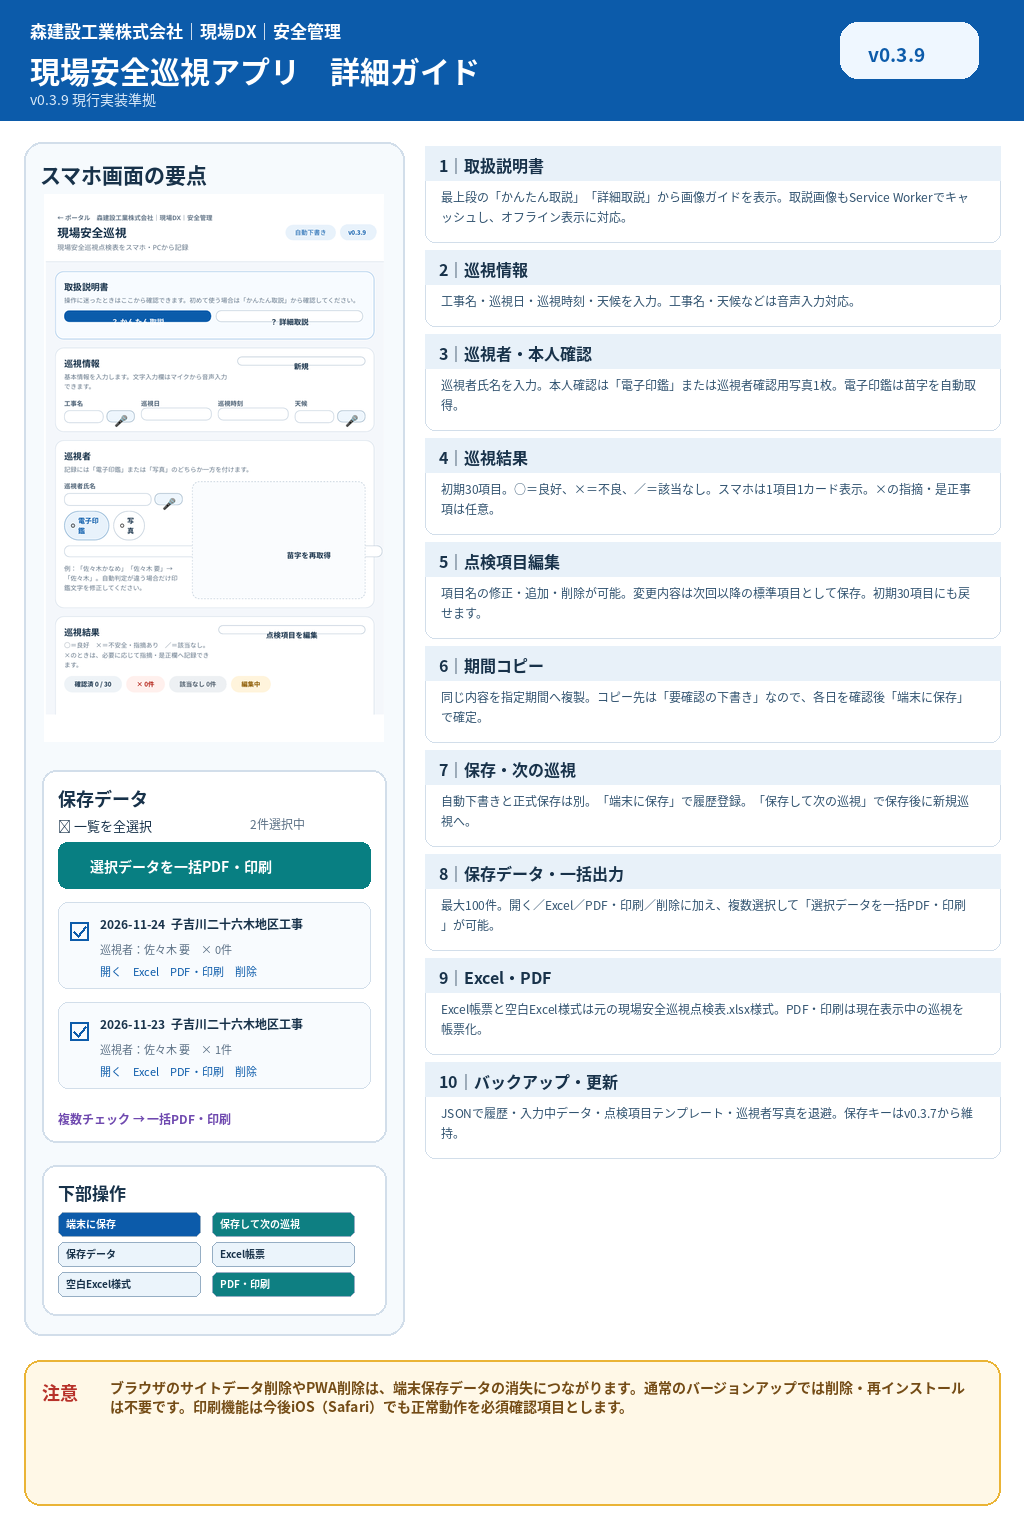
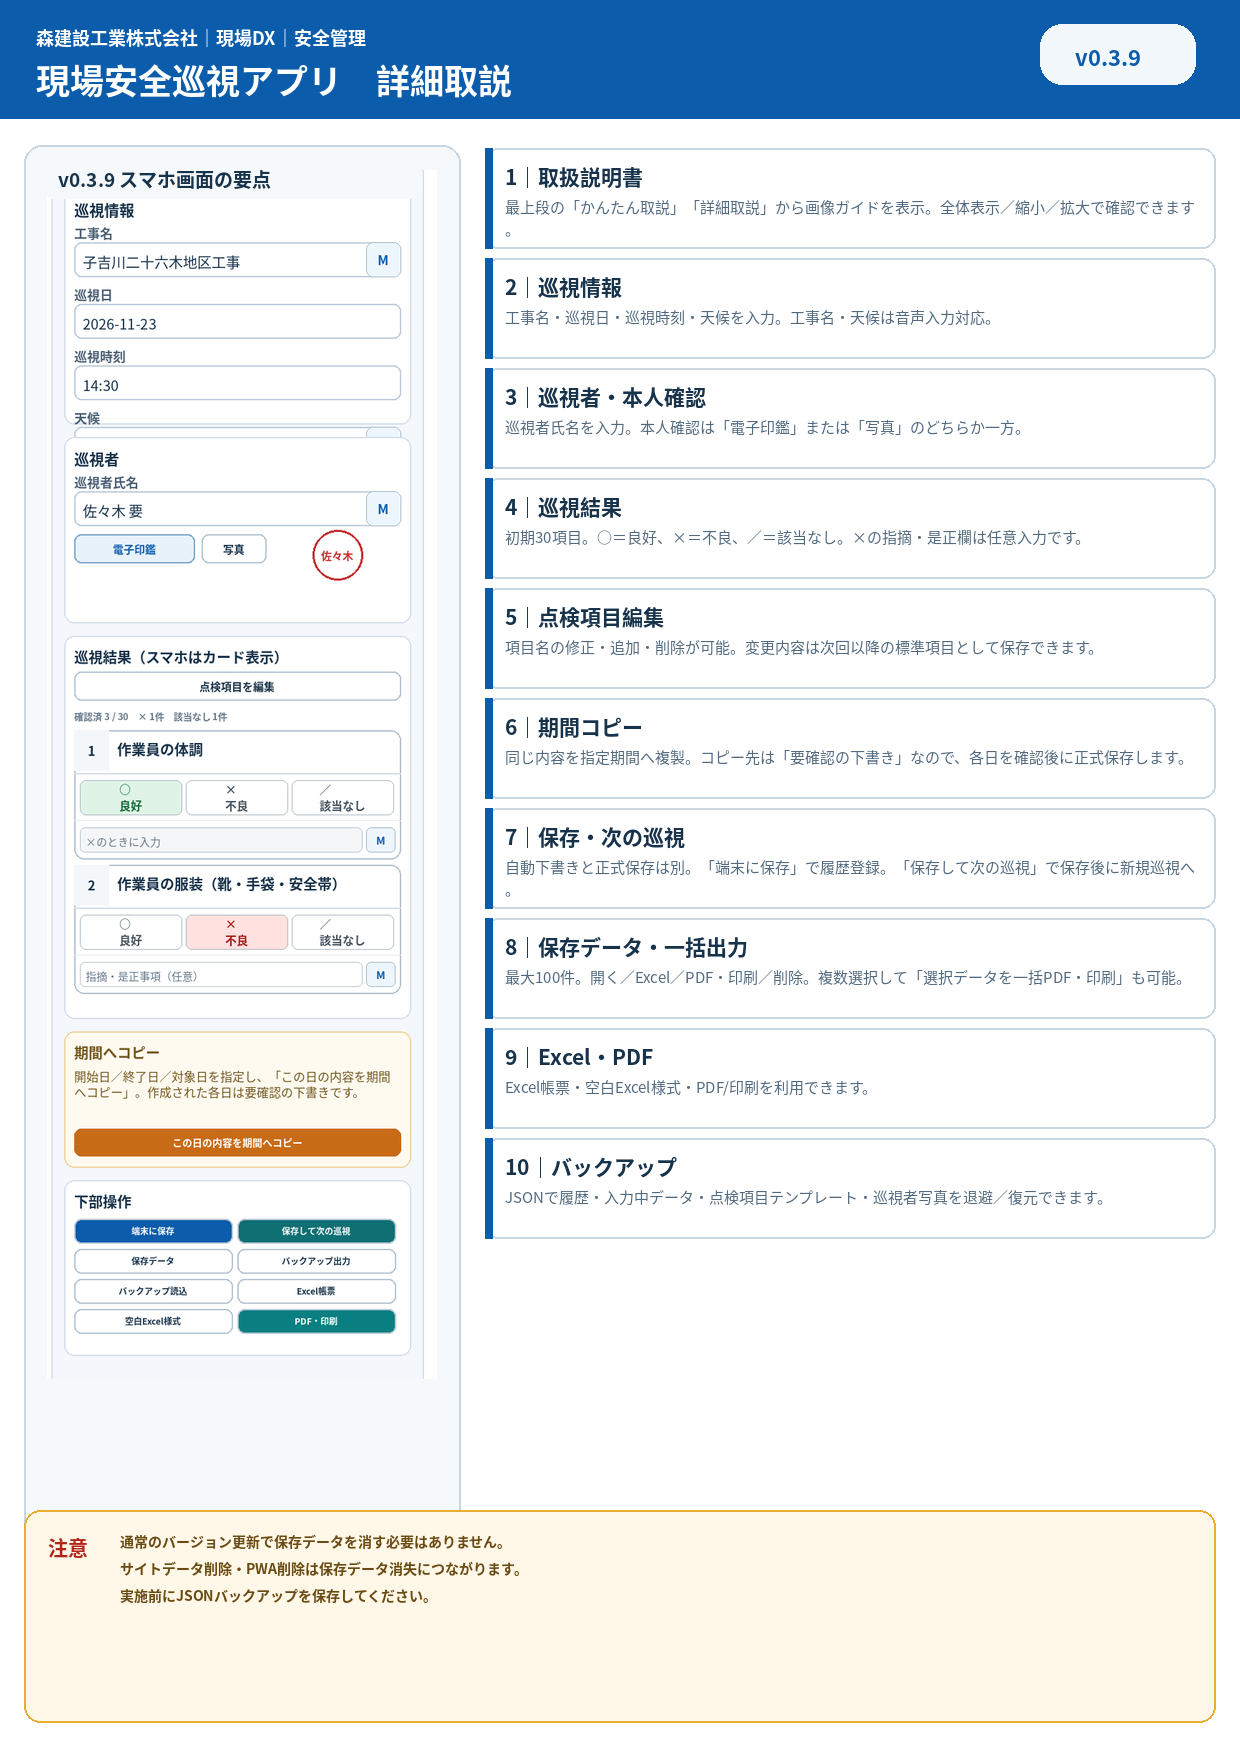
v0.3.9 取説表示・Android巡視結果レイアウト修正

diff --git a/index.html b/index.html
@@ -44,6 +44,35 @@
 }
 
 .help-top-panel{border-color:#9fc5e8;background:#f7fbff}.help-top-panel .help-bar{display:flex;gap:9px;flex-wrap:wrap;margin-top:10px}.help-top-panel .help-bar .btn{min-width:150px;min-height:44px;display:flex;align-items:center;justify-content:center;line-height:1.3;padding:10px 14px}@media(max-width:560px){.help-top-panel .help-bar .btn{flex:1 1 140px}}
+
+/* v0.3.9 display hotfix: Android patrol heading + guide viewer */
+.patrol-section-head{display:grid!important;grid-template-columns:minmax(0,1fr) auto!important;align-items:start!important;gap:12px!important;flex-wrap:nowrap!important}
+.patrol-section-head .patrol-heading-copy{display:block!important;min-width:0!important;width:100%!important;max-width:none!important;flex:none!important}
+.patrol-section-head .patrol-heading-copy h2,.patrol-section-head .patrol-heading-copy .hint{writing-mode:horizontal-tb!important;text-orientation:mixed!important;white-space:normal!important;width:100%!important;max-width:none!important}
+.patrol-section-head .patrol-heading-copy .hint{word-break:normal!important;overflow-wrap:break-word!important;line-break:auto!important;line-height:1.65!important}
+.guide-dialog-card{overflow:hidden!important;display:flex!important;flex-direction:column!important;max-height:92dvh!important}
+.guide-dialog-head{flex:0 0 auto!important}
+.guide-image-controls{flex:0 0 auto;display:flex;align-items:center;justify-content:center;gap:7px;flex-wrap:wrap;margin:10px 0 8px}
+.guide-image-controls .guide-zoom-btn{min-width:88px;padding:8px 10px}
+.guide-zoom-label{min-width:92px;text-align:center;font-size:12px;font-weight:800;color:var(--blue);background:var(--blue2);border-radius:999px;padding:7px 10px}
+.guide-image-wrap{flex:1 1 auto!important;height:min(62dvh,650px)!important;min-height:260px!important;max-height:650px!important;margin:0 0 9px!important;border:1px solid var(--line)!important;border-radius:12px!important;background:#eef3f7!important;padding:8px!important;overflow:auto!important;display:flex!important;align-items:flex-start!important;justify-content:center!important;overscroll-behavior:contain}
+.guide-image-wrap img{display:block!important;max-width:none!important;max-height:none!important;width:auto;height:auto!important;object-fit:contain!important;flex:0 0 auto!important;border-radius:6px;background:#fff}
+.guide-caption,.guide-image-actions{flex:0 0 auto}
+@media(max-width:900px){
+ .patrol-section-head{grid-template-columns:1fr!important;display:grid!important}
+ .patrol-section-head .patrol-heading-copy{grid-column:1!important;width:100%!important;min-width:100%!important}
+ .patrol-section-head .template-tools{grid-column:1!important;width:100%!important}
+ .guide-dialog-card{padding:12px!important}
+ .guide-image-wrap{height:58dvh!important;min-height:240px!important}
+}
+@media(max-width:560px){
+ .patrol-section-head .patrol-heading-copy .hint{font-size:12px!important;line-height:1.7!important}
+ .patrol-section-head .template-tools{display:grid!important;grid-template-columns:1fr!important}
+ .patrol-section-head .template-tools .btn{width:100%!important}
+ .guide-image-controls{display:grid!important;grid-template-columns:1fr 1fr!important}
+ .guide-image-controls .guide-zoom-btn,.guide-zoom-label{width:100%!important;min-width:0!important}
+ .guide-image-wrap{height:55dvh!important;min-height:220px!important;padding:5px!important}
+}
 </style>
 </head>
 <body>
@@ -105,8 +134,8 @@
   </section>
 
   <section class="panel">
-    <div class="section-head">
-      <div><h2>巡視結果</h2><p class="hint">○＝良好　×＝不安全・指摘あり　／＝該当なし。×のときは、必要に応じて指摘・是正欄へ記録できます。</p></div>
+    <div class="section-head patrol-section-head">
+      <div class="patrol-heading-copy"><h2>巡視結果</h2><p class="hint">○＝良好　×＝不安全・指摘あり　／＝該当なし。×のときは、必要に応じて指摘・是正欄へ記録できます。</p></div>
       <div class="template-tools">
         <button id="editItemsBtn" class="btn btn-light" type="button">点検項目を編集</button>
         <button id="resetItemsBtn" class="btn btn-light hidden" type="button">初期項目に戻す</button>
@@ -169,8 +198,8 @@
 </main>
 
 <dialog id="historyDialog"><div class="dialog-card"><div class="section-head"><div><h2>保存データ</h2><p class="hint">保存した巡視記録を開く・出力・削除できます。複数選択して一括PDF・印刷もできます。</p></div><button class="btn btn-light" id="closeHistory" type="button">閉じる</button></div><div class="history-toolbar"><label class="checkline"><input id="historySelectAll" type="checkbox"> 一覧を全選択</label><span id="historySelectedCount" class="small">0件選択中</span><div class="history-bulk-actions"><button id="bulkPrintBtn" class="btn btn-accent" type="button" disabled>選択データを一括PDF・印刷</button><button id="bulkClearBtn" class="btn btn-light" type="button">選択解除</button></div></div><div id="historyList" class="history-list"></div></div></dialog>
-<dialog id="quickGuideDialog"><div class="dialog-card"><div class="section-head"><div><h2>かんたん取説</h2><p class="hint">画像つきの簡易版です。まずはこちらを確認してください。</p></div><button class="btn btn-light" id="closeQuickGuide" type="button">閉じる</button></div><div class="guide-image-wrap"><img src="./guide-quick.png" alt="現場安全巡視アプリ かんたん取説"></div><p class="guide-caption">入力から保存、保存データ、一括PDF・印刷までを1枚で確認できます。</p><div class="guide-image-actions"><a class="btn btn-light" href="./guide-quick.png" target="_blank" rel="noopener">画像を拡大表示</a><button id="openDetailFromQuick" class="btn" type="button">詳細取説へ</button><button id="closeQuickGuide2" class="btn btn-primary" type="button">閉じる</button></div></div></dialog>
-<dialog id="detailGuideDialog"><div class="dialog-card"><div class="section-head"><div><h2>詳細取説</h2><p class="hint">各機能を画面付きで詳しく確認できます。</p></div><button class="btn btn-light" id="closeDetailGuide" type="button">閉じる</button></div><div class="guide-image-wrap"><img src="./guide-detail.png" alt="現場安全巡視アプリ 詳細取説"></div><p class="guide-caption">巡視情報、巡視者、30項目判定、期間コピー、保存データ、一括PDF・印刷、Excel帳票、バックアップまで説明しています。</p><div class="guide-image-actions"><a class="btn btn-light" href="./guide-detail.png" target="_blank" rel="noopener">画像を拡大表示</a><button id="closeDetailGuide2" class="btn btn-primary" type="button">閉じる</button></div></div></dialog>
+<dialog id="quickGuideDialog"><div class="dialog-card guide-dialog-card"><div class="section-head guide-dialog-head"><div><h2>かんたん取説</h2><p class="hint">最初は全体が1画面に収まる大きさで表示します。</p></div><button class="btn btn-light" id="closeQuickGuide" type="button">閉じる</button></div><div class="guide-image-controls" aria-label="画像の表示倍率"><button class="btn btn-light guide-zoom-btn" type="button" data-guide-zoom="out" data-guide-target="quickGuideImage">－ 縮小</button><button class="btn btn-light guide-zoom-btn" type="button" data-guide-zoom="fit" data-guide-target="quickGuideImage">全体表示</button><span class="guide-zoom-label" id="quickGuideZoomLabel">全体 100%</span><button class="btn btn-light guide-zoom-btn" type="button" data-guide-zoom="in" data-guide-target="quickGuideImage">＋ 拡大</button></div><div class="guide-image-wrap"><img id="quickGuideImage" src="./guide-quick.png" alt="現場安全巡視アプリ かんたん取説"></div><p class="guide-caption">入力から保存、保存データ、一括PDF・印刷までを1枚で確認できます。</p><div class="guide-image-actions"><button id="openDetailFromQuick" class="btn" type="button">詳細取説へ</button><button id="closeQuickGuide2" class="btn btn-primary" type="button">閉じる</button></div></div></dialog>
+<dialog id="detailGuideDialog"><div class="dialog-card guide-dialog-card"><div class="section-head guide-dialog-head"><div><h2>詳細取説</h2><p class="hint">最初は全体が1画面に収まる大きさで表示します。</p></div><button class="btn btn-light" id="closeDetailGuide" type="button">閉じる</button></div><div class="guide-image-controls" aria-label="画像の表示倍率"><button class="btn btn-light guide-zoom-btn" type="button" data-guide-zoom="out" data-guide-target="detailGuideImage">－ 縮小</button><button class="btn btn-light guide-zoom-btn" type="button" data-guide-zoom="fit" data-guide-target="detailGuideImage">全体表示</button><span class="guide-zoom-label" id="detailGuideZoomLabel">全体 100%</span><button class="btn btn-light guide-zoom-btn" type="button" data-guide-zoom="in" data-guide-target="detailGuideImage">＋ 拡大</button></div><div class="guide-image-wrap"><img id="detailGuideImage" src="./guide-detail.png" alt="現場安全巡視アプリ 詳細取説"></div><p class="guide-caption">巡視情報、巡視者、30項目判定、期間コピー、保存データ、一括PDF・印刷、Excel帳票、バックアップまで説明しています。</p><div class="guide-image-actions"><button id="closeDetailGuide2" class="btn btn-primary" type="button">閉じる</button></div></div></dialog>
 <div id="toast" class="toast"></div>
 <script src="./excel-export.js"></script>
 <script>
@@ -347,6 +376,37 @@ function bind(){
 }
 function init(){fillMeta();renderHistory();bind()}
 init();
+})();
+</script>
+
+<script>
+(()=>{
+  const state=new Map();
+  function labelFor(id){return document.getElementById(id==='quickGuideImage'?'quickGuideZoomLabel':'detailGuideZoomLabel')}
+  function apply(id,zoom=1){
+    const img=document.getElementById(id); if(!img)return;
+    const wrap=img.closest('.guide-image-wrap'); if(!wrap)return;
+    const nw=img.naturalWidth||1, nh=img.naturalHeight||1;
+    const aw=Math.max(50,wrap.clientWidth-16), ah=Math.max(50,wrap.clientHeight-16);
+    const fit=Math.min(aw/nw,ah/nh,1);
+    zoom=Math.max(.5,Math.min(3,zoom)); state.set(id,zoom);
+    const width=Math.max(1,Math.round(nw*fit*zoom));
+    img.style.width=width+'px'; img.style.height='auto';
+    wrap.style.justifyContent=width<=aw?'center':'flex-start';
+    wrap.scrollLeft=0; wrap.scrollTop=0;
+    const lab=labelFor(id); if(lab)lab.textContent=(zoom===1?'全体 ':'')+Math.round(zoom*100)+'%';
+  }
+  function fit(id){apply(id,1)}
+  function afterOpen(id){requestAnimationFrame(()=>requestAnimationFrame(()=>fit(id)))}
+  document.addEventListener('click',e=>{
+    const b=e.target.closest('[data-guide-zoom]');
+    if(b){const id=b.dataset.guideTarget;const cur=state.get(id)||1;const a=b.dataset.guideZoom;if(a==='fit')fit(id);else apply(id,a==='in'?cur*1.25:cur*.8);return}
+    if(e.target.closest('#quickGuideBtn'))afterOpen('quickGuideImage');
+    if(e.target.closest('#detailGuideBtn'))afterOpen('detailGuideImage');
+    if(e.target.closest('#openDetailFromQuick'))setTimeout(()=>afterOpen('detailGuideImage'),0);
+  });
+  for(const id of ['quickGuideImage','detailGuideImage']){const im=document.getElementById(id);if(im){if(im.complete)setTimeout(()=>fit(id),0);else im.addEventListener('load',()=>fit(id),{once:true})}}
+  window.addEventListener('resize',()=>{for(const id of ['quickGuideImage','detailGuideImage']){const im=document.getElementById(id);if(im?.closest('dialog')?.open)apply(id,state.get(id)||1)}});
 })();
 </script>
 <script>

diff --git a/service-worker.js b/service-worker.js
@@ -1,4 +1,4 @@
-const CACHE='moriken-safety-patrol-v0.3.9';
+const CACHE='moriken-safety-patrol-v0.3.9-r2';
 const ASSETS=['./','./index.html','./manifest.webmanifest','./icon.svg','./app-info.json','./version.json','./excel-export.js','./templates/safety-patrol-template.xlsx','./guide-quick.png','./guide-detail.png'];
 self.addEventListener('install',e=>e.waitUntil(caches.open(CACHE).then(c=>c.addAll(ASSETS)).then(()=>self.skipWaiting())));
 self.addEventListener('activate',e=>e.waitUntil(caches.keys().then(keys=>Promise.all(keys.filter(k=>k.startsWith('moriken-safety-patrol-')&&k!==CACHE).map(k=>caches.delete(k)))).then(()=>self.clients.claim())));

diff --git a/CHANGELOG.md b/CHANGELOG.md
@@ -1,10 +1,12 @@
 # 変更履歴
 
 ## v0.3.9 (2026-11-24)
-- 「かんたん取説」「詳細取説」を画像付きガイドに変更
-- 取説画像は縦横比を維持して表示し、「画像を拡大表示」に対応
-- スマホで「巡視結果」の見出し・説明文が縦詰まりしないようレイアウトを修正
-- 保存キー・保存データ形式・一括PDF/印刷・元帳票.xlsx出力はv0.3.8から変更なし
+- アプリ内に「かんたん取説」「詳細取説」の画像ガイドを追加
+- 取説画像は画面画像の縦横比を維持して作り直し、初期表示で全体像が見えるよう修正
+- 取説ビューに「縮小」「全体表示」「拡大」を追加
+- Androidで「巡視結果」の説明文が縦書きのように詰まる表示不具合を修正
+- 保存データの複数選択・一括PDF/印刷を維持
+- 保存キー・保存データ形式・元帳票.xlsx出力はv0.3.8から変更なし
 
 ## v0.3.8 (2026-11-24)
 - 保存データ一覧に複数選択を追加
